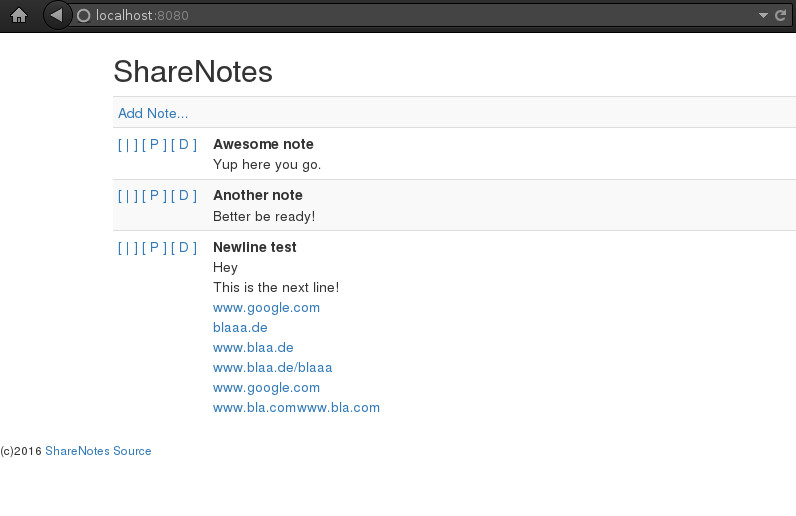
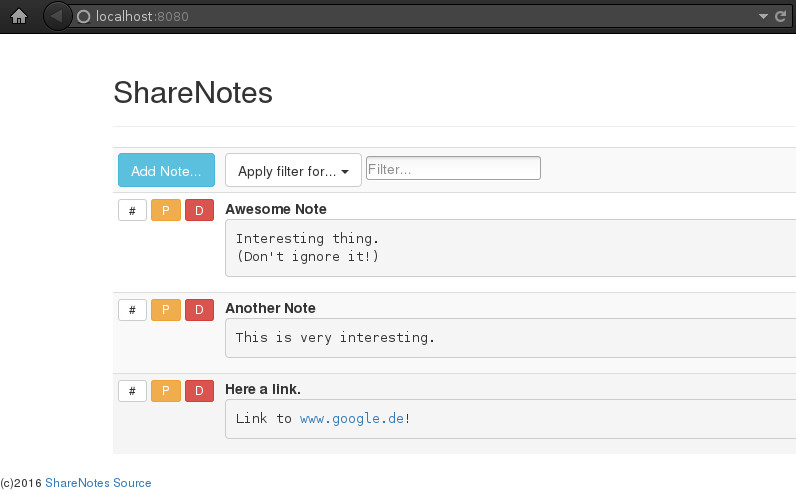
Some more html formating.

diff --git a/html/Note.html b/html/Note.html
@@ -15,7 +15,7 @@
       <a href="/EditNote/{{.NoteID}}" class="btn btn-success btn-md" role="button" target="_top">Edit</a> 
       <a href="/ConfirmPasteBinNote/{{.NoteID}}" class="btn btn-warning btn-md" role="button" target="_blank">dPaste</a> 
       <a href="/ConfirmDeleteNote/{{.NoteID}}" class="btn btn-danger btn-md" role="button" target="_top">Delete</a> 
-      <a href="/" class="btn btn-default btn-md" role="button" target="_top">Cancel</a>
+      <a href="/" class="btn btn-default btn-md" role="button" target="_top">Back</a>
   </div>
 </form>
 

diff --git a/html/index.html b/html/index.html
@@ -8,12 +8,6 @@
   <script src="https://ajax.googleapis.com/ajax/libs/jquery/1.11.3/jquery.min.js"></script>
   <script src="http://maxcdn.bootstrapcdn.com/bootstrap/3.3.5/js/bootstrap.min.js"></script>
   
-  <style>
-   pre 
-    {
-    display: inline;
-    }
-  </style>
 </head>
 <body>
 

diff --git a/src/shareNotes.go b/src/shareNotes.go
@@ -73,8 +73,9 @@ func partialHtmlParser(text string) template.HTML {
 		newText = restText
 	}
 
-	var lines []string = strings.Split(newText, "\n")
-	return template.HTML("<div>" + strings.Join(lines, "</div>\n<div>") + "</div>")
+	//var lines []string = strings.Split(newText, "\n")
+	//return template.HTML("<div>" + strings.Join(lines, "</div>\n<div>") + "</div>")
+        return template.HTML(newText)
 }
 
 func noteToHtmlNote(note note.Note) htmlNote {
